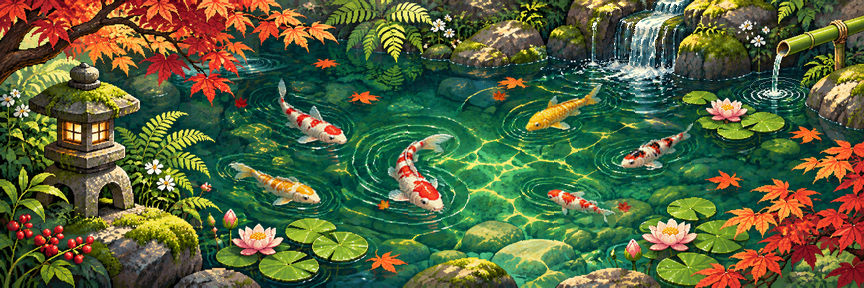
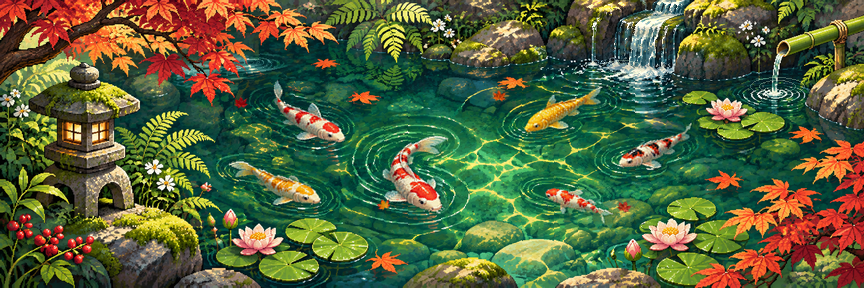
Slow and stagger the koi with independent paddling and rest periods

diff --git a/scripts/render_banner.py b/scripts/render_banner.py
@@ -99,6 +99,29 @@ class Scene:
         for (sprite, cx, cy), heading in zip(load_fish(), self.original_headings):
             sprite = sprite.rotate(degrees(heading), Image.Resampling.BICUBIC, expand=True)
             self.fish.append((sprite, cx, cy))
+        # Each koi gets its own smooth bouts of paddling and resting. Integrating
+        # these envelopes gives a continuous clock that pauses during idle times
+        # and still closes exactly at the GIF loop boundary.
+        bouts = (
+            ((.10, .17), (.64, .15)),
+            ((.33, .16), (.87, .15)),
+            ((.20, .18), (.74, .14)),
+            ((.52, .24),),
+            ((.02, .11), (.47, .14), (.93, .09)),
+            ((.39, .17), (.78, .14)),
+        )
+        self.stroke_counts = (2, 3, 2, 2, 3, 2)
+        self.motion_tables = []
+        grid = np.linspace(0, 1, 4097)
+        for fish_bouts in bouts:
+            activity = np.zeros_like(grid)
+            for center, half_width in fish_bouts:
+                distance = (grid - center + .5) % 1 - .5
+                inside = np.abs(distance) < half_width
+                activity[inside] += np.cos(pi * distance[inside] / (2 * half_width)) ** 2
+            clock = np.concatenate(([0], np.cumsum((activity[:-1] + activity[1:]) / 2)))
+            clock /= clock[-1]
+            self.motion_tables.append((grid, clock, np.minimum(activity, 1)))
         atlas = Image.open(ROOT / "maple/leaves-atlas.png").convert("RGBA")
         self.leaves = []
         for index in range(4):
@@ -109,13 +132,20 @@ class Scene:
             tile.thumbnail((16, 16), Image.Resampling.LANCZOS)
             self.leaves.append(tile)
 
+    def fish_clock(self, index, t):
+        grid, clock, activity = self.motion_tables[index]
+        position = t % 1
+        return (float(np.interp(position, grid, clock)),
+                float(np.interp(position, grid, activity)))
+
     def fish_pose(self, index, t):
-        """Independent short drifts centered on each original fish position."""
+        """Gentle short drifts with independently timed pauses."""
         _, cx, cy = self.fish[index]
         heading = self.original_headings[index]
-        phase = tau * (t % 1) + index * 1.13
-        along = (16, 14, 10, 16, 14, 12)[index] * sin(phase)
-        across = 3 * sin(2 * phase)
+        clock, _ = self.fish_clock(index, t)
+        phase = tau * clock + index * 1.13
+        along = (12, 11, 8, 12, 11, 10)[index] * sin(phase)
+        across = 2 * sin(2 * phase)
         return (cx + along * cos(heading) - across * sin(heading),
                 cy + along * sin(heading) + across * cos(heading),
                 heading + .045 * sin(phase))
@@ -126,11 +156,11 @@ class Scene:
         yy, xx = np.mgrid[:sprite.height, :sprite.width]
         left, _, right, _ = sprite.getchannel("A").getbbox()
         along_body = np.clip((xx - left) / max(1, right - left), 0, 1)
-        # A clear travelling tail stroke supplies the swimming motion without
-        # moving the fish out of the arrangement the user preferred.
+        # Slow, individually timed strokes relax while the fish is resting.
         tail_weight = (1 - along_body) ** 1.65
-        stroke = tau * (16 * (t % 1)) + index * 1.3
-        bend = 7.5 * tail_weight * np.sin(stroke - along_body * 4)
+        clock, activity = self.fish_clock(index, t)
+        stroke = tau * self.stroke_counts[index] * clock + index * 1.3
+        bend = 5.5 * (.3 + .7 * activity) * tail_weight * np.sin(stroke - along_body * 4)
         sample_y = np.clip(np.rint(yy + bend).astype(int), 0, sprite.height - 1)
         moving = Image.fromarray(pixels[sample_y, xx])
         _, _, heading = self.fish_pose(index, t)
@@ -213,7 +243,7 @@ def main():
         previous = indices
         frames.append(frame)
         durations.append((60, 70, 70)[index % 3])
-    output = ROOT / "banner/many-koi-natural.gif"
+    output = ROOT / "banner/many-koi-calm.gif"
     frames[0].save(output, save_all=True, append_images=frames[1:], duration=durations,
                    loop=0, optimize=False, transparency=255, disposal=1)
     scene.render(0).save(ROOT / "banner/many-koi-still.png")

diff --git a/banner/README.md b/banner/README.md
@@ -1,11 +1,13 @@
 # Many-koi garden banner
 
-The original `pond-banner.png` is preserved. The README displays `many-koi-natural.gif`
+The original `pond-banner.png` is preserved. The README displays `many-koi-calm.gif`
 above the garden sign, with the original still image as a reduced-motion fallback.
 
 This twelve-second loop preserves each koi's original position, size, and
-orientation. Independent short drifts stay within 17 pixels of the original
-anchors, while travelling body waves and visible tail strokes provide movement.
+orientation. Independent short drifts stay within 13 pixels of the original
+anchors. Each fish has separate, softly eased paddling bouts and rest periods,
+with two or three slow tail strokes per loop instead of sixteen synchronized
+strokes. The body wave relaxes during the pauses.
 The existing water, waterfall, ripples, foliage, lantern light, and leaf animation
 retain their six-second cadence. The camera stays fixed. The activity-driven koi
 pond remains a separate daily-updated scene.

diff --git a/README.md b/README.md
@@ -1,7 +1,7 @@
 <p align="center">
   <picture>
     <source media="(prefers-reduced-motion: reduce)" srcset="pond-banner.png" />
-    <img src="banner/many-koi-natural.gif" width="100%" alt="Six koi gently swimming in their original garden arrangement, with visible tail strokes, flowing water and waterfall, expanding ripples, swaying foliage, and drifting maple leaves" />
+    <img src="banner/many-koi-calm.gif" width="100%" alt="Six koi resting and gently paddling at their own pace in the original garden arrangement, with flowing pond water and waterfall, expanding ripples, swaying foliage, and drifting maple leaves" />
   </picture>
 </p>
 
